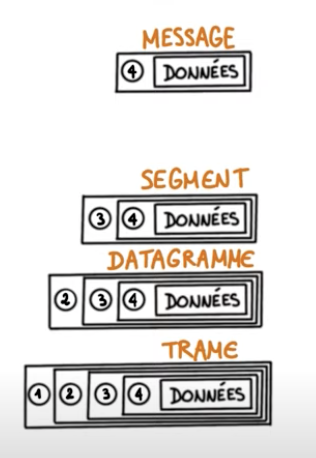
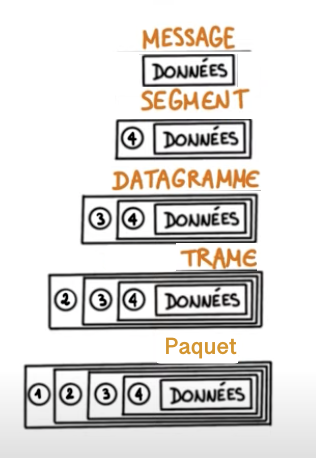
nsi TP reseau index

Changed region(s): [[0.3418, 0.0917, 0.8259, 0.4279], [0.3418, 0.5197, 0.8259, 0.6114], [0.5127, 0.7336, 0.769, 0.7948]]

diff --git a/content/docs/NSI_1/NSI_index.html b/content/docs/NSI_1/NSI_index.html
@@ -119,6 +119,7 @@ bookShowToc: false
 <p>Semaine du 03/01 
   <ul>
     <li>Entrainement au concours Algorea: <a href="/docs/NSI_1/autoformation/page1/">Lien</a></li>
+    <li>Cours sur le modèle OSI: <a href="/docs/SNT_2nde/pages/page3/modele_OSI/">Lien</a></li>
   </ul>
 </p>
 

diff --git a/content/docs/SNT_2nde/pages/page3/securite.md b/content/docs/SNT_2nde/pages/page3/securite.md
@@ -49,25 +49,44 @@ Les différentes parties (ou sequences) correspondent à différentes couches du
 ## La securité et les failles de securité du modèle OSI
 Pour réaliser une attaque sur notre système informatique, un pirate a besoin d'établir une connexion : c'est à dire une communication.
 Pour réaliser cela, il doit : 
+
 1. (couche 3) connaitre l'adresse IP de notre machine
 2. (couche 4 et couche 3) avoir la liste des ports ouverts sur notre machine : pour cela, le pirate doit réaliser un scan de port de notre machine cible, sans se faire repérer (avec l'identité d'un autre par exemple). Pour réaliser cela, il va devoir faire communiquer une une machine tierce (C) avec notre machine pour savoir si celle ci a échangé des données. Si le numéro d'IPID (couche 3 datagramme IP) de la machine C augmente, c'est qu'une connexion a pu être etablie avec notre machine. Et il peut en déduire que notre port était bien ouvert.
 3. (couche 2) connaitre le numéro d'ISN de notre machine : Pour initialiser sa connexion, il doit envoyer un SYN en se faisant passer pour A.
 
-**Principe d'une attaque avec usurpation d'id:**
+**Principe d'une attaque avec usurpation d'id:** (*blind IP spoofing*)
+
 Pour initialiser sa connexion, il doit envoyer un SYN sur un port ouvert en se faisant passer pour A.
 
-![SYN1](../images/SYN1.png)
+
+<figure>
+  <img src="../images/SYN1.png">
+  <figcaption>SYN1</figcaption>
+</figure>
 
 Le serveur va recevoir un segment SYN de la seule machine autorisée à lui parler.
 Il va donc lui répondre avec un segment SYN+ACK.
 
-![SYN2](../images/SYN2.png)
+<figure>
+  <img src="../images/SYN2.png">
+  <figcaption>SYN2</figcaption>
+</figure>
 
-Il ne reste plus au pirate qu'à renvoyer un segment ACK correct pour finaliser la communication. La difficulté vient du fait que le serveur répond à la machine A en mettant son propre numéro de séquence, et çà, le pirate ne peux pas le connaitre puisque l'info part vers l'ordinateur A. Il ne sait donc pas quel numéro d'acquittement positionner vu qu'il n'a pas connaissance du numéro de séquence envoyé par le serveur. Il devrait indiquer le numéro de séquence reçu+1, mais il ne l'a jamais reçu... Il doit alors trouver une stratégie pour le deviner, et l'utiliser pour calculer la valeur de l'ACK.
+Il ne reste plus au pirate qu'à renvoyer un segment ACK correct pour finaliser la communication. La difficulté vient du fait que le serveur répond à la machine A en mettant son propre numéro de séquence, et çà, le pirate ne peux pas le connaitre puisque l'information part vers l'ordinateur A. Il ne sait donc pas quel numéro d'acquittement positionner vu qu'il n'a pas connaissance du numéro de séquence envoyé par le serveur. Il devrait indiquer le numéro de séquence reçu+1, mais il ne l'a jamais reçu... Il doit alors trouver une stratégie pour le deviner, et l'utiliser pour calculer la valeur de l'ACK.
 
-![SYN3](../images/SYN3.png)
+<figure>
+  <img src="../images/SYN3.png">
+  <figcaption>SYN3</figcaption>
+</figure>
 
-Il faut juste faire taire la machine A pour qu'elle n'envoie pas le RST et que le serveur ne ferme pas sa connexion. L'idée est d'envoyer énormément de segments SYN sur le port ouvert d'une machine pour que celle-ci ne puisse plus répondre. Si l'on se contente d'envoyer un SYN sans répondre au SYN + ACK qui va suivre, le serveur en face va allouer des ressources pour attendre notre réponse jusqu'au dépassement d'un délai d'expiration.
+Le but du pirate est d'envoyer un seul et unique paquet à la machine A.
+Dans ce paquet il va juste exécuter une commande shell:
+
+`echo ++ > /etc/known_hosts`
+
+Ce ficher est celui sur lequel se base l'application rlogin pour identifier les adresses IP qui auront le droit de se connecter sans mot de passe. En mettant ++ dedans, il autorise toute adresse IP, donc la sienne, à se connecter au shell en root à distance.
+
+Pour finir: Il faut juste faire taire la machine A pour qu'elle n'envoie pas le RST et que le serveur ne ferme pas sa connexion. L'idée est d'envoyer énormément de segments SYN sur le port ouvert d'une machine pour que celle-ci ne puisse plus répondre. Si l'on se contente d'envoyer un SYN sans répondre au SYN + ACK qui va suivre, le serveur en face va allouer des ressources pour attendre notre réponse jusqu'au dépassement d'un délai d'expiration.
 
 Les ISN sont aujourd'hui aléatoires, donc ils ne sont plus prédictibles. De plus, la mise en oeuvre de firewalls sur les machines et les réseaux protège aussi souvent leurs accès.
 
@@ -81,4 +100,4 @@ Les ISN sont aujourd'hui aléatoires, donc ils ne sont plus prédictibles. De pl
 
 # Liens
 
-* cours sur les reseaux et protocoles : [https://openclassrooms.com/fr/courses/857447-apprenez-le-fonctionnement-des-reseaux-tcp-ip/856345-la-nat-et-le-port-forwarding](https://openclassrooms.com/fr/courses/857447-apprenez-le-fonctionnement-des-reseaux-tcp-ip/856345-la-nat-et-le-port-forwarding)
+* cours sur les reseaux et protocoles : [openclassroom, nouvelle version](https://openclassrooms.com/fr/courses/6944606-concevez-votre-reseau-tcp-ip) 

diff --git a/content/docs/SNT_2nde/pages/page3/protocoles.md b/content/docs/SNT_2nde/pages/page3/protocoles.md
@@ -244,7 +244,14 @@ Au bout de ce temps, le paquet est donc forcément stocké au niveau du routeur 
 
 ## Trame et datagramme
 **Ex 1:** 
-Donner les principaux éléments qui composent un datagramme IP et décrire leur utilité.
+
+<figure>
+  <img src="../images/trame_message_OSI.png">
+</figure>
+
+
+1. Commenter le schéma précédent en expliquant l'encapsulation des données.
+2. Donner les principaux éléments qui composent un datagramme IP et décrire leur utilité.
 
 **Ex 2:**
 Voici le modèle simplifié de datagramme IP que nous allons utiliser dans la suite de l'exercice:

diff --git a/content/docs/SNT_2nde/pages/page3/modele_OSI.md b/content/docs/SNT_2nde/pages/page3/modele_OSI.md
@@ -85,7 +85,7 @@ Il va ajouter l'adresse MAC de l'emetteur et du destinataire, qu'il aura résolu
 
 Le document complet sur la structure d'une trame: [Lien](/pdf/NSI/reseau_trame.pdf)
 
-Ce document est issu du cours en ligne du[lycee de Taaone](http://www.mysti2d.net/polynesie2/ETT/C044/31/SerruresBioIP/index.html?Cours4.html), série technologique.
+Ce document est issu du cours en ligne du [lycee de Taaone](http://www.mysti2d.net/polynesie2/ETT/C044/31/SerruresBioIP/index.html?Cours4.html), série technologique.
 
 
 # Liens
